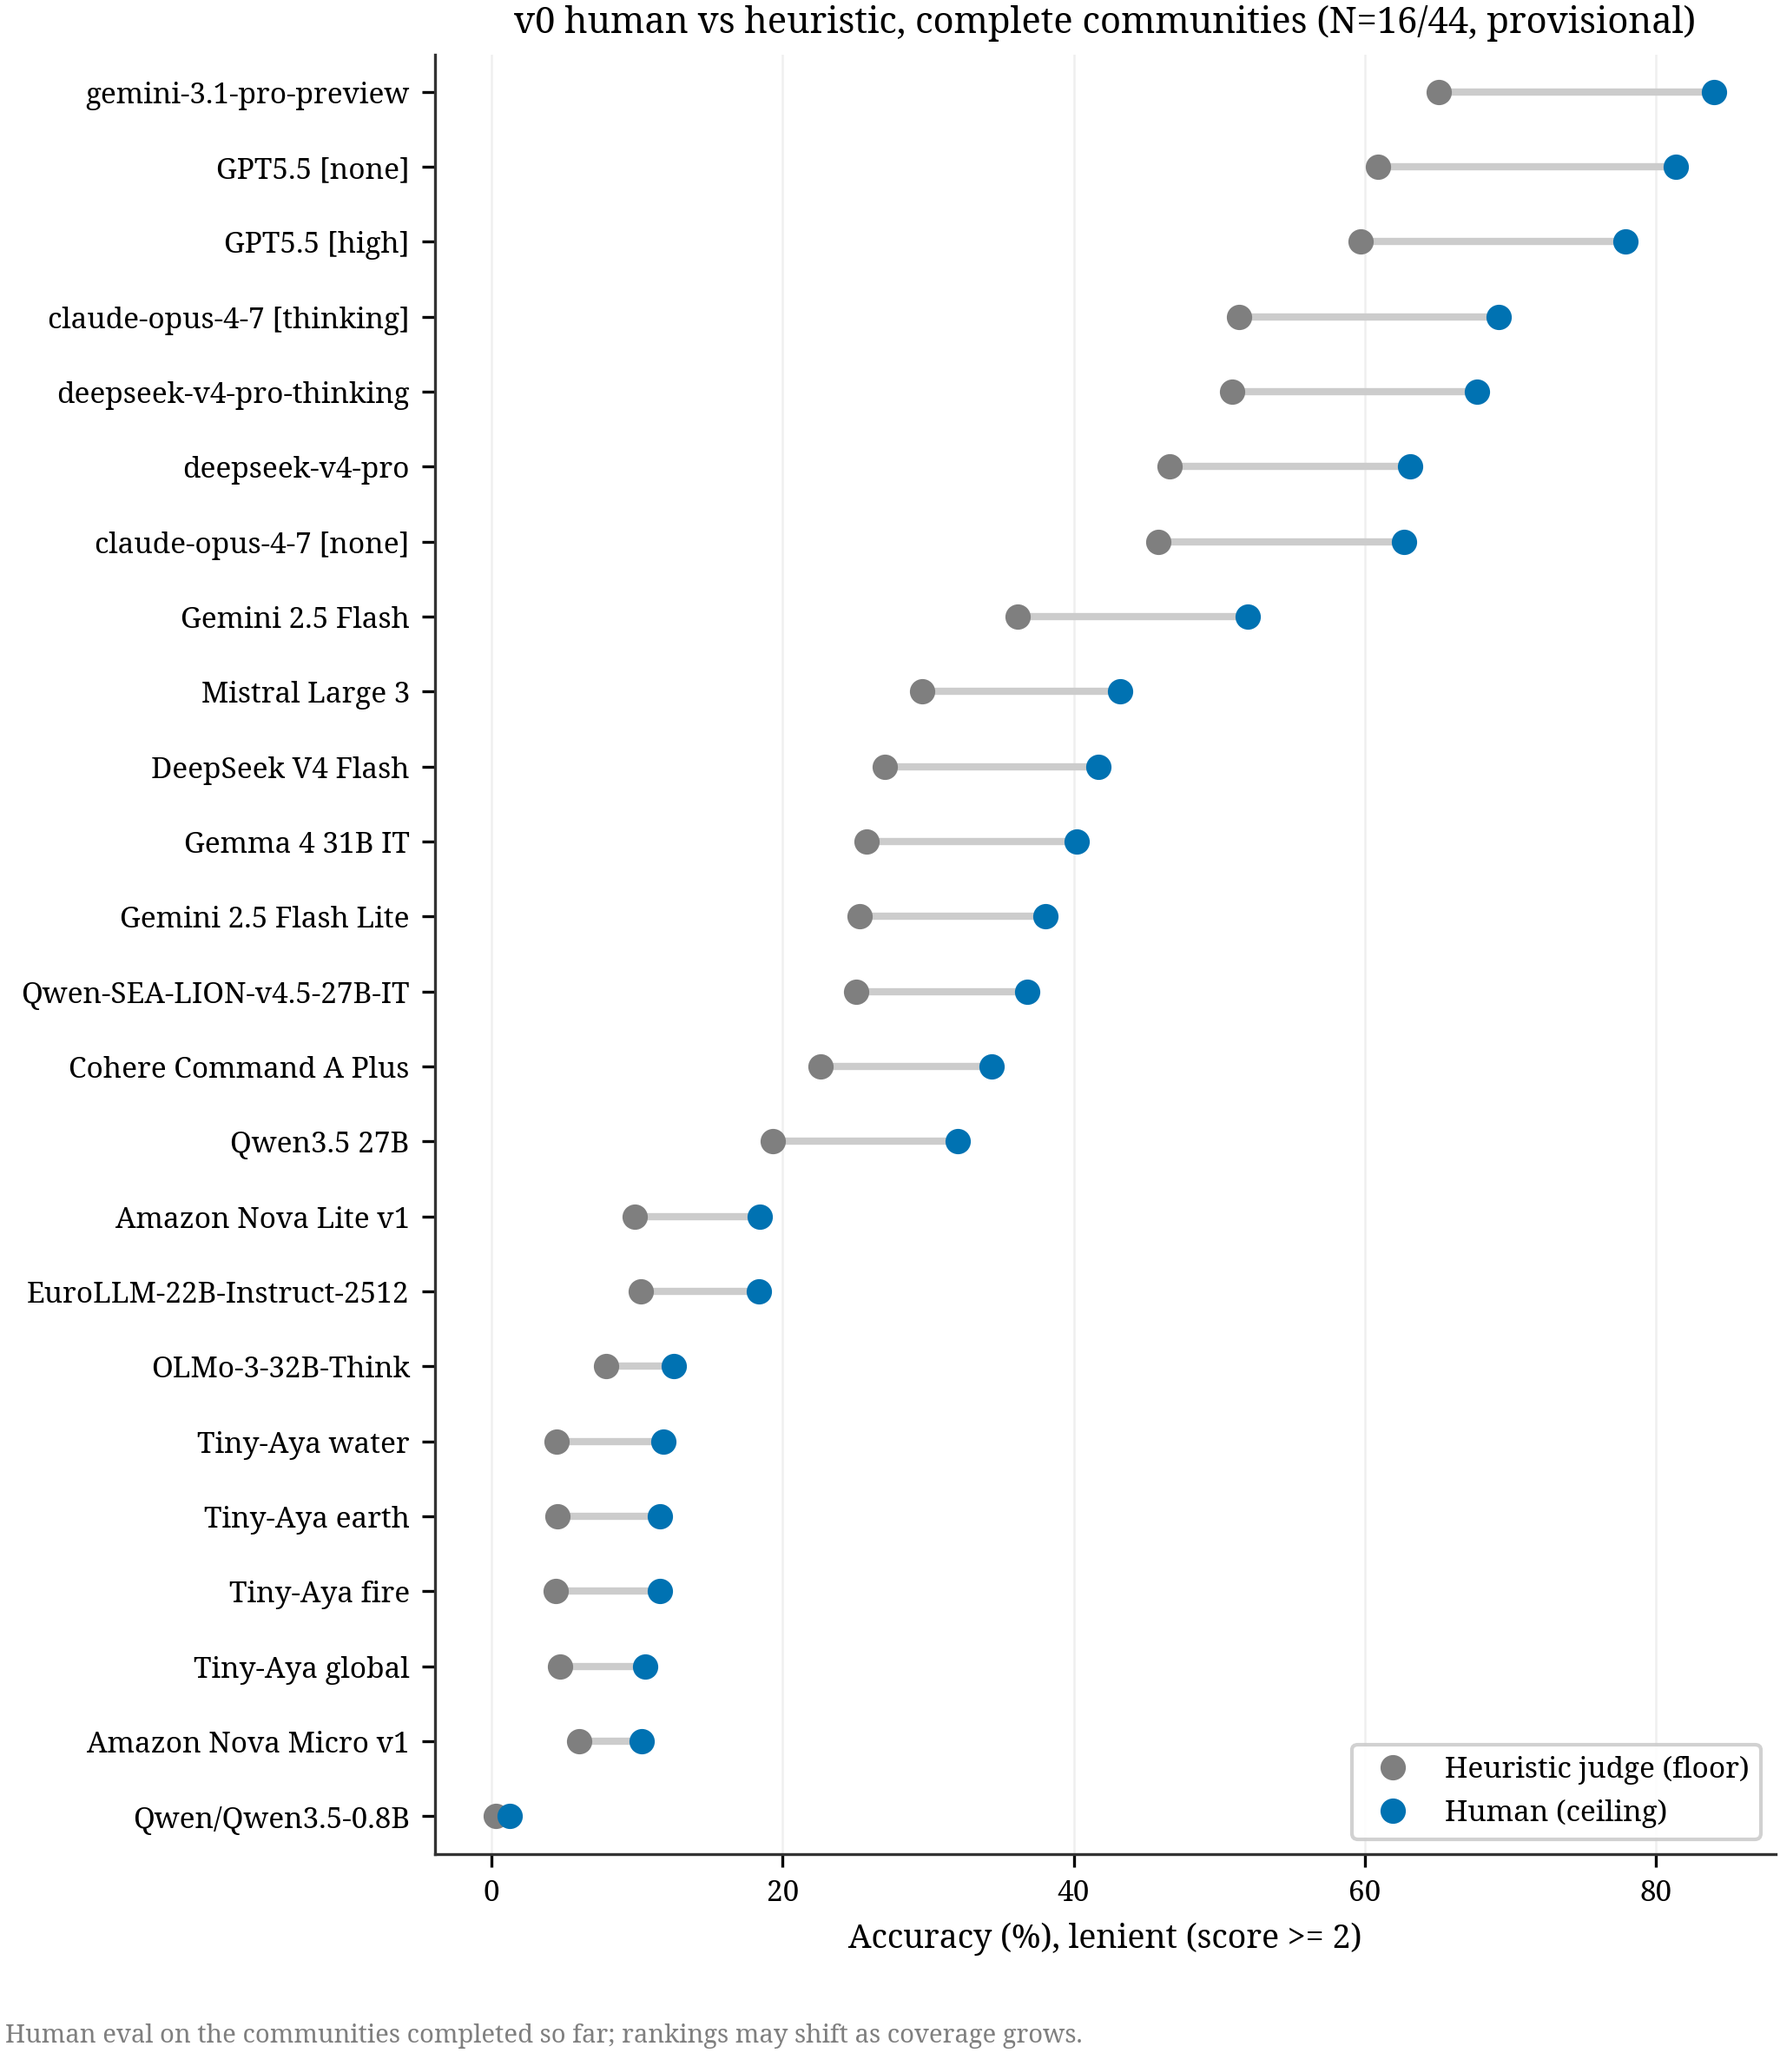
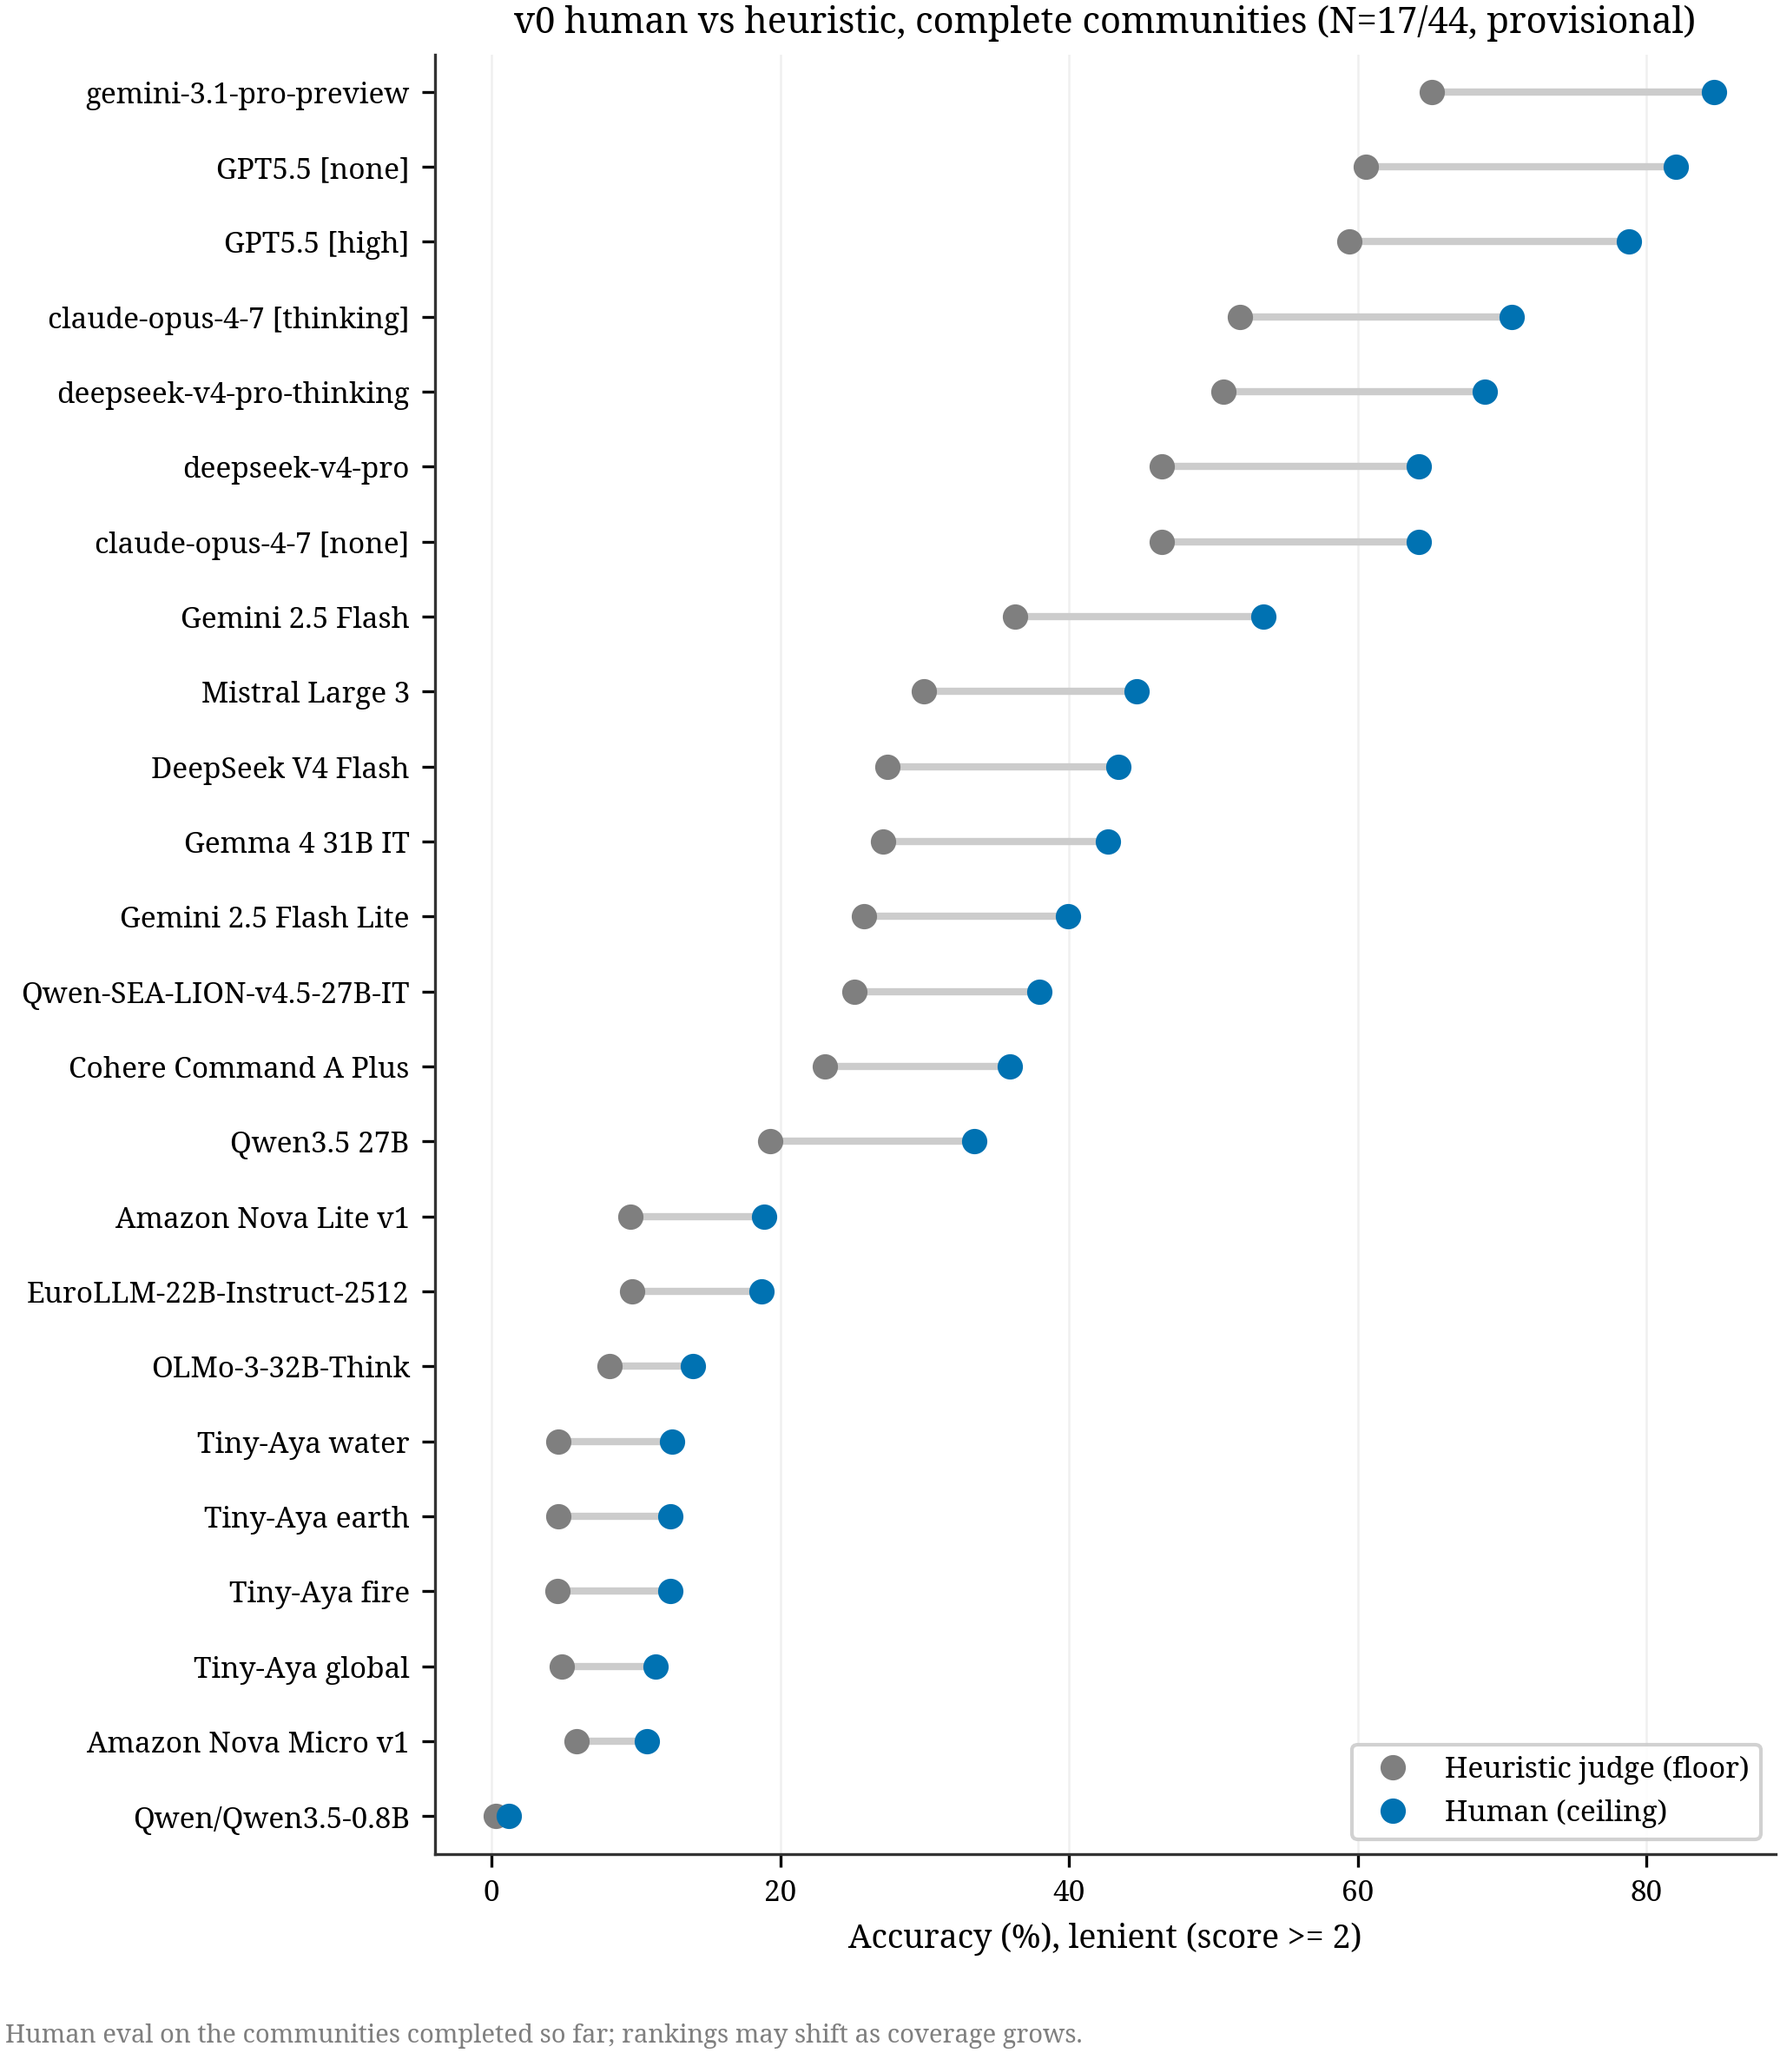
human-eval refresh: coverage 17/44 (Henry flatfile update 7 Aug)
pending 20039->18062 (~2k more human scores). Leaderboard stable: Gemini
3.1 77.9, GPT5.5 none 75.9, GPT5.5 high 73.9 (strict). Ordering unchanged
as coverage grows.

diff --git a/analysis/model_results_v0/HUMAN_EVAL_v0.md b/analysis/model_results_v0/HUMAN_EVAL_v0.md
@@ -2,42 +2,42 @@
 
 Generated 2026-08-07 by human_eval.py from `model_riddle_results_flat.csv`. Rerun as coverage grows; do not edit by hand. Every score traces to Henry's flatfile.
 
-**Provisional: 16/44 communities have complete human evaluation.** The leaderboard below is computed on those communities only, using the human score for every row (auto-resolved rows keep their auto score; no judge-fill). Strict = top score (3); lenient = score >= 2. Rankings can still change as coverage completes.
+**Provisional: 17/44 communities have complete human evaluation.** The leaderboard below is computed on those communities only, using the human score for every row (auto-resolved rows keep their auto score; no judge-fill). Strict = top score (3); lenient = score >= 2. Rankings can still change as coverage completes.
 
 ## Coverage
 
-complete: 16, partial: 21, thin: 2, not started: 5. Per-community table in `data/processed/human_eval_coverage.csv`.
+complete: 17, partial: 21, thin: 4, not started: 2. Per-community table in `data/processed/human_eval_coverage.csv`.
 
-Not started (chase): arabic_egypt, arabic_morocco, arabic_sudan, luganda_uganda, lumasaba_uganda.
-Thin: spanish_peru, swahili_kenya.
+Not started (chase): luganda_uganda, lumasaba_uganda.
+Thin: arabic_sudan, arabic_morocco, swahili_kenya, arabic_egypt.
 
-## Human leaderboard (complete communities, N=16/44)
+## Human leaderboard (complete communities, N=17/44)
 
 | model | strict (%) | lenient (%) |
 |---|---|---|
-| gemini-3.1-pro-preview | 77.4 | 84.0 |
-| GPT5.5 [none] | 75.7 | 81.4 |
-| GPT5.5 [high] | 73.5 | 77.9 |
-| claude-opus-4-7 [thinking] | 62.8 | 69.2 |
-| deepseek-v4-pro-thinking | 61.1 | 67.7 |
-| deepseek-v4-pro | 56.0 | 63.2 |
-| claude-opus-4-7 [none] | 55.4 | 62.7 |
-| Gemini 2.5 Flash | 44.8 | 51.9 |
-| Mistral Large 3 | 36.6 | 43.2 |
-| DeepSeek V4 Flash | 33.2 | 41.7 |
-| Gemma 4 31B IT | 32.1 | 40.2 |
-| Qwen-SEA-LION-v4.5-27B-IT | 30.5 | 36.8 |
-| Gemini 2.5 Flash Lite | 30.0 | 38.1 |
-| Cohere Command A Plus | 27.9 | 34.4 |
-| Qwen3.5 27B | 23.8 | 32.1 |
-| Amazon Nova Lite v1 | 12.8 | 18.4 |
-| EuroLLM-22B-Instruct-2512 | 11.8 | 18.4 |
-| OLMo-3-32B-Think | 9.2 | 12.6 |
-| Amazon Nova Micro v1 | 6.2 | 10.3 |
-| Tiny-Aya fire | 5.9 | 11.6 |
-| Tiny-Aya earth | 5.8 | 11.6 |
-| Tiny-Aya water | 5.8 | 11.8 |
-| Tiny-Aya global | 5.4 | 10.6 |
-| Qwen/Qwen3.5-0.8B | 0.2 | 1.3 |
+| gemini-3.1-pro-preview | 77.9 | 84.7 |
+| GPT5.5 [none] | 75.9 | 82.1 |
+| GPT5.5 [high] | 73.9 | 78.8 |
+| claude-opus-4-7 [thinking] | 64.1 | 70.6 |
+| deepseek-v4-pro-thinking | 61.5 | 68.8 |
+| claude-opus-4-7 [none] | 56.8 | 64.2 |
+| deepseek-v4-pro | 56.6 | 64.3 |
+| Gemini 2.5 Flash | 45.8 | 53.5 |
+| Mistral Large 3 | 37.4 | 44.7 |
+| DeepSeek V4 Flash | 34.4 | 43.4 |
+| Gemma 4 31B IT | 34.2 | 42.7 |
+| Gemini 2.5 Flash Lite | 31.5 | 39.9 |
+| Qwen-SEA-LION-v4.5-27B-IT | 31.2 | 37.9 |
+| Cohere Command A Plus | 29.1 | 35.9 |
+| Qwen3.5 27B | 24.6 | 33.4 |
+| Amazon Nova Lite v1 | 12.8 | 18.9 |
+| EuroLLM-22B-Instruct-2512 | 11.8 | 18.7 |
+| OLMo-3-32B-Think | 10.4 | 13.9 |
+| Amazon Nova Micro v1 | 6.4 | 10.8 |
+| Tiny-Aya fire | 6.2 | 12.4 |
+| Tiny-Aya water | 6.2 | 12.5 |
+| Tiny-Aya earth | 6.1 | 12.4 |
+| Tiny-Aya global | 5.7 | 11.4 |
+| Qwen/Qwen3.5-0.8B | 0.2 | 1.2 |
 
 > Provisional until coverage completes. Rerun to refresh.
